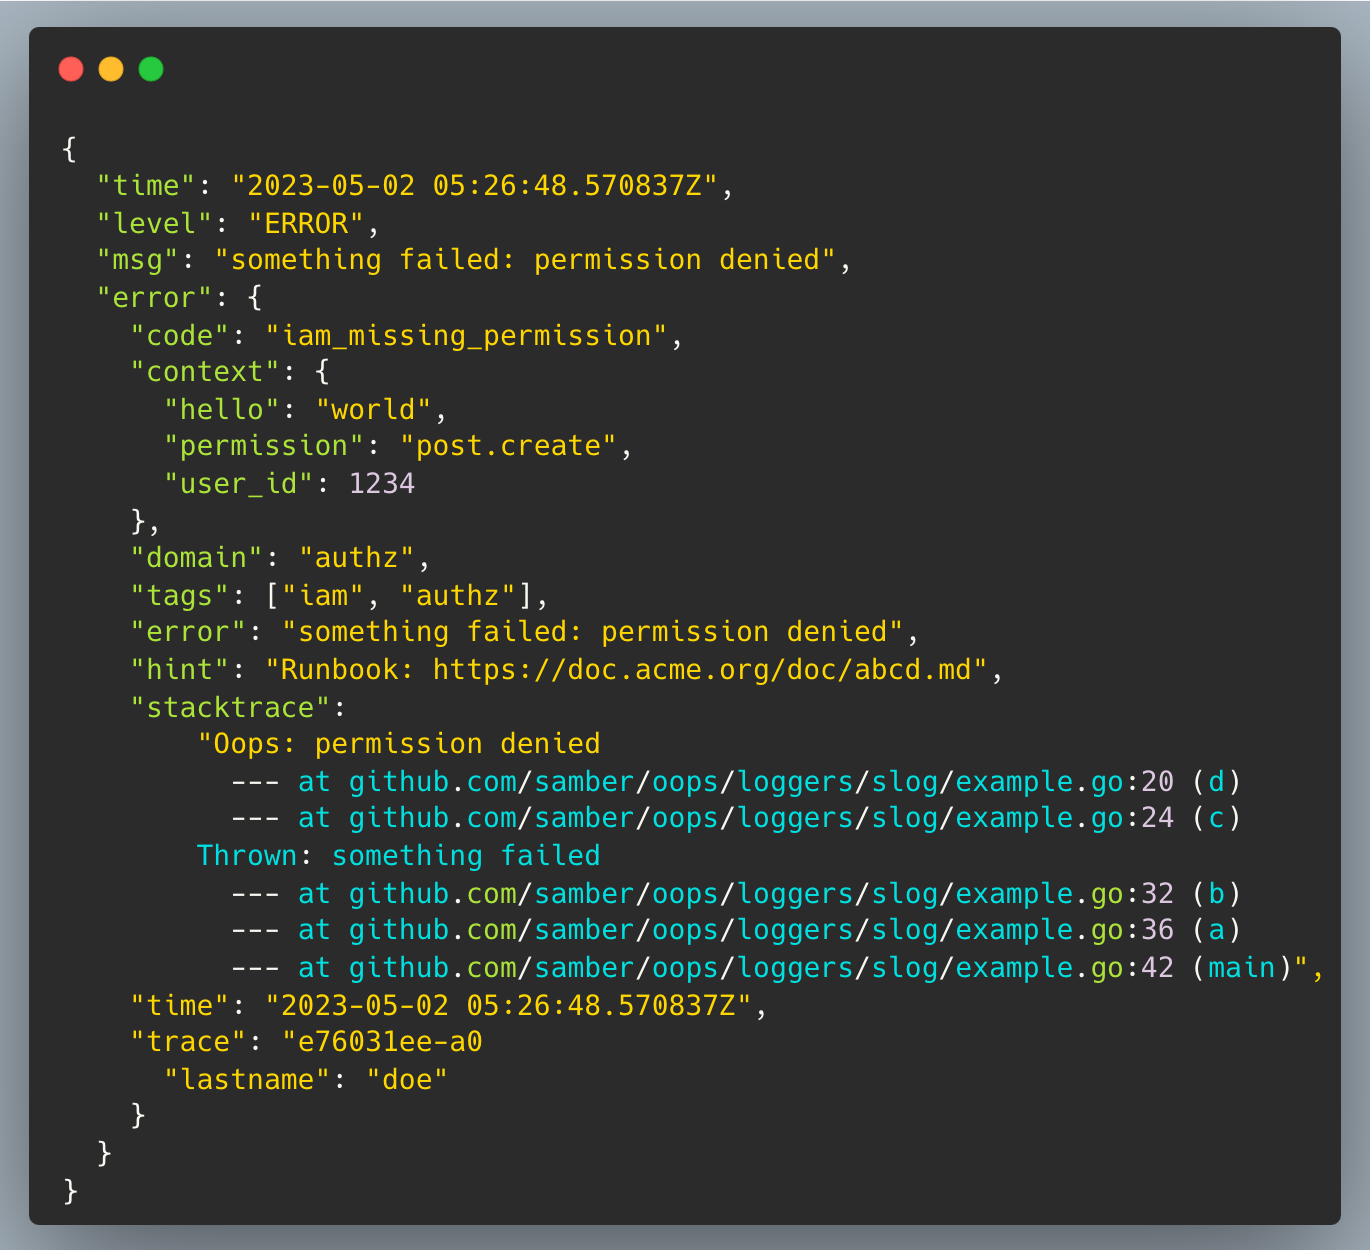
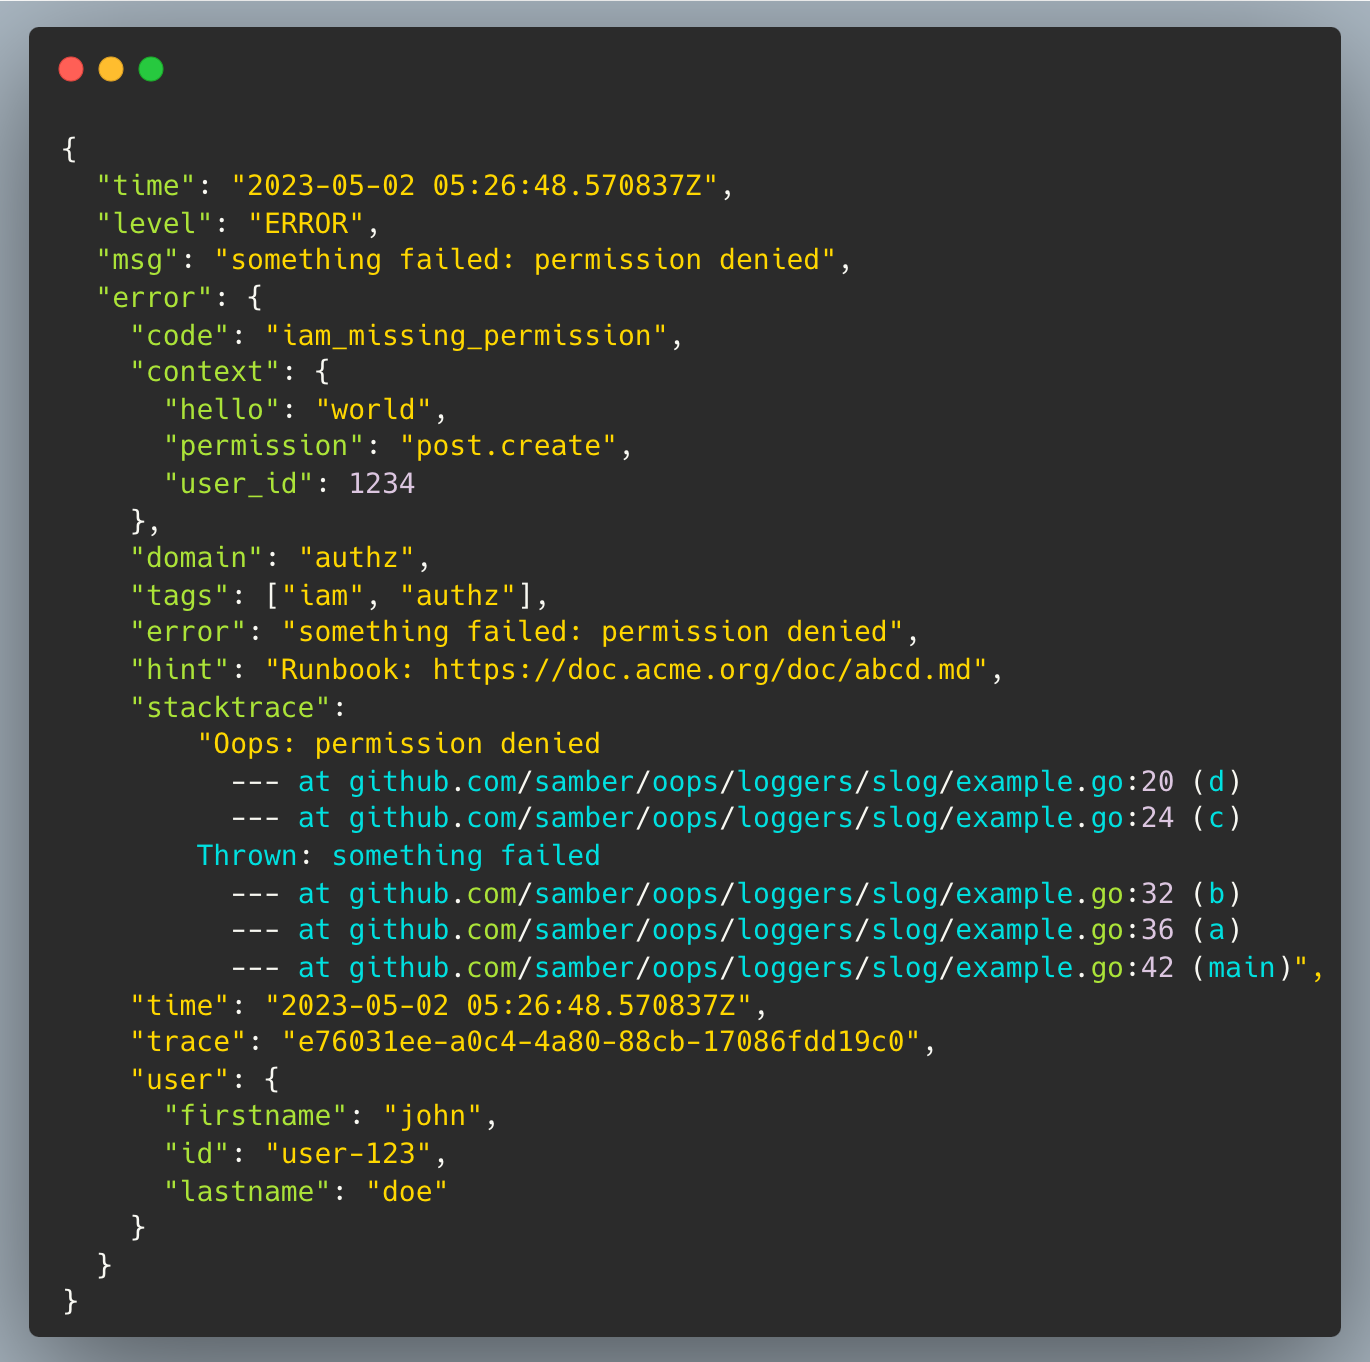
oops

Changed region(s): [[0.0613, 0.1248, 0.9504, 0.9048], [0.3679, 0.312, 0.4599, 0.3744], [0.0307, 0.0312, 0.1226, 0.0624]]

diff --git a/assets/README.md b/assets/README.md
@@ -7,7 +7,7 @@ Generated on https://carbon.now.sh
 
 ![](motivation.png)
 
-https://carbon.now.sh/?bg=rgba%28171%2C+184%2C+195%2C+1%29&t=a11y-dark&wt=none&l=application%2Fjson&width=680&ds=true&dsyoff=20px&dsblur=68px&wc=true&wa=true&pv=13px&ph=15px&ln=false&fl=1&fm=Hack&fs=14px&lh=133%25&si=false&es=2x&wm=false&code=%257B%250A%2520%2520%2522time%2522%253A%2520%25222023-05-02%252005%253A26%253A48.570837Z%2522%252C%250A%2520%2520%2522level%2522%253A%2520%2522ERROR%2522%252C%250A%2520%2520%2522msg%2522%253A%2520%2522something%2520failed%253A%2520permission%2520denied%2522%252C%250A%2520%2520%2522error%2522%253A%2520%257B%250A%2520%2520%2520%2520%2522code%2522%253A%2520%2522iam_missing_permission%2522%252C%250A%2520%2520%2520%2520%2522context%2522%253A%2520%257B%250A%2520%2520%2520%2520%2520%2520%2522hello%2522%253A%2520%2522world%2522%252C%250A%2520%2520%2520%2520%2520%2520%2522permission%2522%253A%2520%2522post.create%2522%252C%250A%2520%2520%2520%2520%2520%2520%2522user_id%2522%253A%25201234%250A%2520%2520%2520%2520%257D%252C%250A%2520%2520%2520%2520%2522domain%2522%253A%2520%2522authz%2522%252C%250A%2520%2520%2520%2520%2522tags%2522%253A%2520%255B%2522iam%2522%252C%2520%2522authz%2522%255D%252C%250A%2520%2520%2520%2520%2522error%2522%253A%2520%2522something%2520failed%253A%2520permission%2520denied%2522%252C%250A%2520%2520%2520%2520%2522hint%2522%253A%2520%2522Runbook%253A%2520https%253A%252F%252Fdoc.acme.org%252Fdoc%252Fabcd.md%2522%252C%250A%2520%2520%2520%2520%2522stacktrace%2522%253A%250A%2520%2520%2520%2520%2520%2520%2520%2520%2522Oops%253A%2520permission%2520denied%250A%2520%2520%2520%2520%2520%2520%2520%2520%2520%2520---%2520at%2520github.com%252Fsamber%252Foops%252Floggers%252Fslog%252Fexample.go%253A20%2520%28d%29%250A%2520%2520%2520%2520%2520%2520%2520%2520%2520%2520---%2520at%2520github.com%252Fsamber%252Foops%252Floggers%252Fslog%252Fexample.go%253A24%2520%28c%29%250A%2520%2520%2520%2520%2520%2520%2520%2520Thrown%253A%2520something%2520failed%250A%2520%2520%2520%2520%2520%2520%2520%2520%2520%2520---%2520at%2520github.com%252Fsamber%252Foops%252Floggers%252Fslog%252Fexample.go%253A32%2520%28b%29%250A%2520%2520%2520%2520%2520%2520%2520%2520%2520%2520---%2520at%2520github.com%252Fsamber%252Foops%252Floggers%252Fslog%252Fexample.go%253A36%2520%28a%29%250A%2520%2520%2520%2520%2520%2520%2520%2520%2520%2520---%2520at%2520github.com%252Fsamber%252Foops%252Floggers%252Fslog%252Fexample.go%253A42%2520%28main%29%2522%252C%250A%2520%2520%2520%2520%2522time%2522%253A%2520%25222023-05-02%252005%253A26%253A48.570837Z%2522%252C%250A%2520%2520%2520%2520%2522trace%2522%253A%2520%2522e76031ee-a0%250A%2520%2520%2520%2520%2520%2520%2522lastname%2522%253A%2520%2522doe%2522%250A%2520%2520%2520%2520%257D%250A%2520%2520%257D%250A%257D
+https://carbon.now.sh/?bg=rgba%28171%2C+184%2C+195%2C+1%29&t=a11y-dark&wt=none&l=application%2Fjson&width=680&ds=true&dsyoff=20px&dsblur=68px&wc=true&wa=true&pv=13px&ph=15px&ln=false&fl=1&fm=Hack&fs=14px&lh=133%25&si=false&es=2x&wm=false&code=%257B%250A%2520%2520%2522time%2522%253A%2520%25222023-05-02%252005%253A26%253A48.570837Z%2522%252C%250A%2520%2520%2522level%2522%253A%2520%2522ERROR%2522%252C%250A%2520%2520%2522msg%2522%253A%2520%2522something%2520failed%253A%2520permission%2520denied%2522%252C%250A%2520%2520%2522error%2522%253A%2520%257B%250A%2520%2520%2520%2520%2522code%2522%253A%2520%2522iam_missing_permission%2522%252C%250A%2520%2520%2520%2520%2522context%2522%253A%2520%257B%250A%2520%2520%2520%2520%2520%2520%2522hello%2522%253A%2520%2522world%2522%252C%250A%2520%2520%2520%2520%2520%2520%2522permission%2522%253A%2520%2522post.create%2522%252C%250A%2520%2520%2520%2520%2520%2520%2522user_id%2522%253A%25201234%250A%2520%2520%2520%2520%257D%252C%250A%2520%2520%2520%2520%2522domain%2522%253A%2520%2522authz%2522%252C%250A%2520%2520%2520%2520%2522tags%2522%253A%2520%255B%2522iam%2522%252C%2520%2522authz%2522%255D%252C%250A%2520%2520%2520%2520%2522error%2522%253A%2520%2522something%2520failed%253A%2520permission%2520denied%2522%252C%250A%2520%2520%2520%2520%2522hint%2522%253A%2520%2522Runbook%253A%2520https%253A%252F%252Fdoc.acme.org%252Fdoc%252Fabcd.md%2522%252C%250A%2520%2520%2520%2520%2522stacktrace%2522%253A%250A%2520%2520%2520%2520%2520%2520%2520%2520%2522Oops%253A%2520permission%2520denied%250A%2520%2520%2520%2520%2520%2520%2520%2520%2520%2520---%2520at%2520github.com%252Fsamber%252Foops%252Floggers%252Fslog%252Fexample.go%253A20%2520%28d%29%250A%2520%2520%2520%2520%2520%2520%2520%2520%2520%2520---%2520at%2520github.com%252Fsamber%252Foops%252Floggers%252Fslog%252Fexample.go%253A24%2520%28c%29%250A%2520%2520%2520%2520%2520%2520%2520%2520Thrown%253A%2520something%2520failed%250A%2520%2520%2520%2520%2520%2520%2520%2520%2520%2520---%2520at%2520github.com%252Fsamber%252Foops%252Floggers%252Fslog%252Fexample.go%253A32%2520%28b%29%250A%2520%2520%2520%2520%2520%2520%2520%2520%2520%2520---%2520at%2520github.com%252Fsamber%252Foops%252Floggers%252Fslog%252Fexample.go%253A36%2520%28a%29%250A%2520%2520%2520%2520%2520%2520%2520%2520%2520%2520---%2520at%2520github.com%252Fsamber%252Foops%252Floggers%252Fslog%252Fexample.go%253A42%2520%28main%29%2522%252C%250A%2520%2520%2520%2520%2522time%2522%253A%2520%25222023-05-02%252005%253A26%253A48.570837Z%2522%252C%250A%2520%2520%2520%2520%2522trace%2522%253A%2520%2522e76031ee-a0c4-4a80-88cb-17086fdd19c0%2522%252C%250A%2520%2520%2520%2520%2522user%2522%253A%2520%257B%250A%2520%2520%2520%2520%2520%2520%2522firstname%2522%253A%2520%2522john%2522%252C%250A%2520%2520%2520%2520%2520%2520%2522id%2522%253A%2520%2522user-123%2522%252C%250A%2520%2520%2520%2520%2520%2520%2522lastname%2522%253A%2520%2522doe%2522%250A%2520%2520%2520%2520%257D%250A%2520%2520%257D%250A%257D
 
 ### Stack trace 1
 
